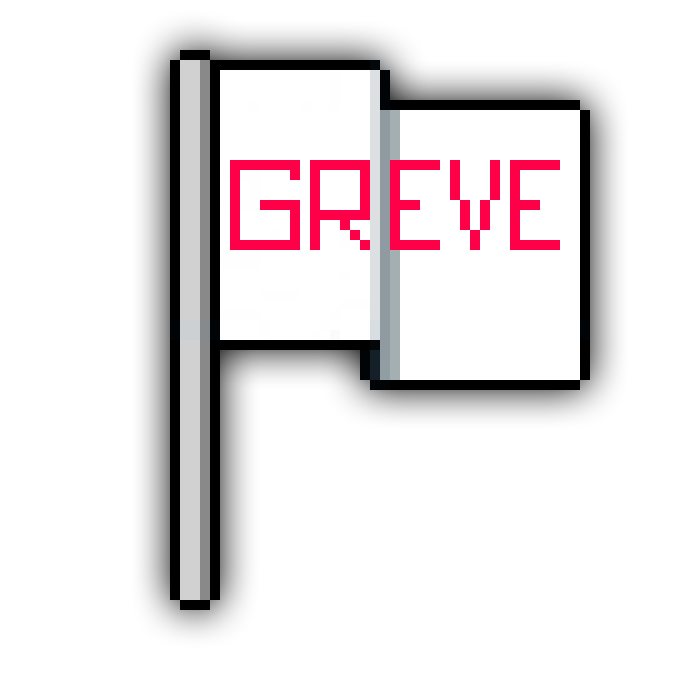
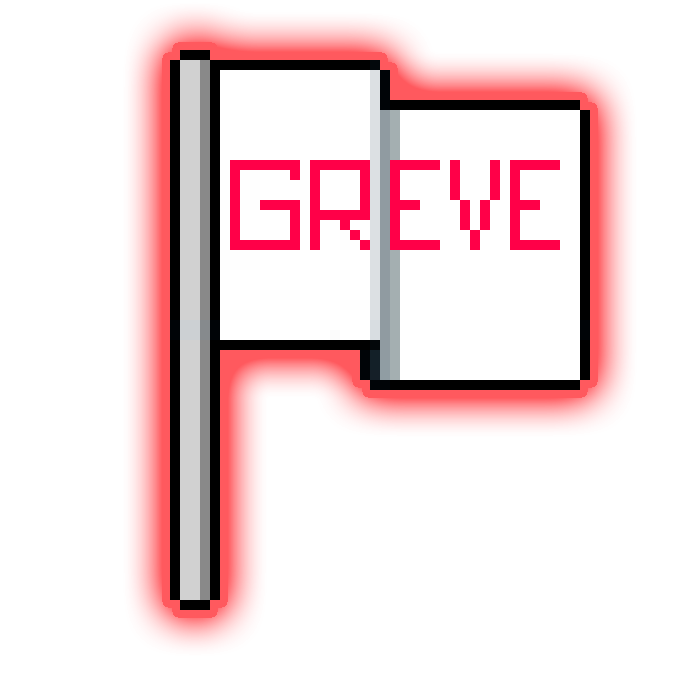
virus, greve, e pa

Changed region(s): [[0.18, 0.0, 0.9, 0.93]]

diff --git a/src/jogo.py b/src/jogo.py
@@ -34,7 +34,7 @@ class GameLoop:
     def run(self):
         pygame.init()
         pygame.display.set_caption("Buraco negro")
-
+         
         tela = pygame.display.set_mode((LAR, ALT))
         
         self.g.setup(tela)
@@ -101,14 +101,28 @@ class GameLoop:
                     while not valida: 
                         comida_x = r.randint(int(self.pos_x) - self.raio_comida, int(self.pos_x) + self.raio_comida)
                         comida_y = r.randint(int(self.pos_y) - self.raio_comida, int(self.pos_y) + self.raio_comida)
-                        nova_comida = Food(comida_x, comida_y, r.randint(1, int(self.raio * 0.4)), COMIDA)
+                        raio = max(15, r.randint(1, int(self.raio * 0.4)))
+                        nova_comida = Food(comida_x, comida_y, raio, COMIDA)
                         dx = comida_x - self.pos_x
                         dy = comida_y - self.pos_y
                         pitagoras = ((dx ** 2) + (dy ** 2)) ** 0.5
                         if pitagoras > self.raio:
                             #nao spawnou dentro fdo player logo ta tudo bem
                             valida = True
-                    if(r.randint(1,5) == 5):nova_comida.info["textura"] = "tigrinho"
+                    #Descobrir o tipo de comidinha
+                    if(r.randint(1,5) == 1 and player.radius > 60):
+                        if(r.randint(1,8) == 1):
+                            nova_comida.info["textura"] = "greve"
+                        else:
+                            nova_comida.info["textura"] = "virus"
+                    else:
+                        resultado = r.randint(1,3)
+                        if resultado == 1:
+                            nova_comida.info["textura"] = "computador" #pc
+                        elif resultado == 2:
+                            nova_comida.info["textura"] = "mesa"
+                        elif resultado == 3:
+                            nova_comida.info["textura"] = "cadeira"
                     self.comidinhas.append(nova_comida)
 
             #Antes de desenhar, atualizar os offsets
@@ -133,10 +147,15 @@ class GameLoop:
                 dy = comida.y - self.pos_y
                 pitagoras = ((dx ** 2) + (dy ** 2)) ** 0.5
 
-                if pitagoras < self.raio:
+                if pitagoras < self.raio and comida.radius < player.radius:
                     self.animacoes.append(comida)
                     self.comidinhas.remove(comida)
-                    self.raio = ((3.141 * (self.raio ** 2) + 3.141 * (comida.radius ** 2)) / 3.141) ** (1/2)
+                    if(comida.info["textura"] == "virus"):
+                        player.radius *= 1/2
+                    if(comida.info["textura"] == "greve"):
+                        exit() #fazer perder
+                    else:
+                        self.raio = ((3.141 * (self.raio ** 2) + 3.141 * (comida.radius ** 2)) / 3.141) ** (1/2)
                 try:
                     if pitagoras > self.raio_comida:
                         self.comidinhas.remove(comida) #deletar a comida que tiver longe do cara

diff --git a/src/graficos.py b/src/graficos.py
@@ -5,7 +5,14 @@ from .config import LAR, ALT
 class Graficos:
 
     def __init__(self):
-        self.texturas = {"tigrinho" : pygame.image.load(os.path.join('assets', f'boss_final.jpg'))}
+        self.texturas = {
+            "tigrinho" : pygame.image.load(os.path.join('assets', f'boss_final.jpg')),
+            "mesa" : pygame.image.load(os.path.join('assets', f'mesa.png')),
+            "cadeira" : pygame.image.load(os.path.join('assets', f'cadeira.png')),
+            "computador" : pygame.image.load(os.path.join('assets', f'pc_n.png')),
+            "virus" : pygame.image.load(os.path.join('assets', f'pc.png')),
+            "greve" : pygame.image.load(os.path.join('assets', f'greve.png')),
+            }
         self.scale = 1
 
     def setup(self, tela):

diff --git a/main.py b/main.py
@@ -19,7 +19,7 @@ Todo:
 [X] - Nao podem spawnar coisinhas dentro do jogador
 [X] - Quao maior tu ficar, mais dispersas as comidas ficam
 [ ] - Cutscene/historinha inicial
-[ ] - Vírus
+[X] - Vírus
 [X] - Texturas:
     [X] - Mesa
     [X] - Cadeira
@@ -27,9 +27,9 @@ Todo:
     [X] - Computador
     [X] - Greve
     [X] - Game over tela
-[ ] - Greve
+[X] - Greve
 [ ] - Sistema de estágio, usando um coeficiente de dificuldade que pode aumentar infinitamente se tu tiver sobrevivendo 
-[ ] - Prompts do tutorial
+[X] - Prompts do tutorial
 [ ] - Implementar tela de game over
 [ ] - Implementar um cronômetro
 [ ] - Sistema de passar de estagio

diff --git a/src/config.py b/src/config.py
@@ -1,6 +1,6 @@
 #Screen Resolution
-LAR = 1200
-ALT = 700
+LAR = 1600
+ALT = 900
 
 ##Colors
 FUNDO = (255, 255, 255) #branco
